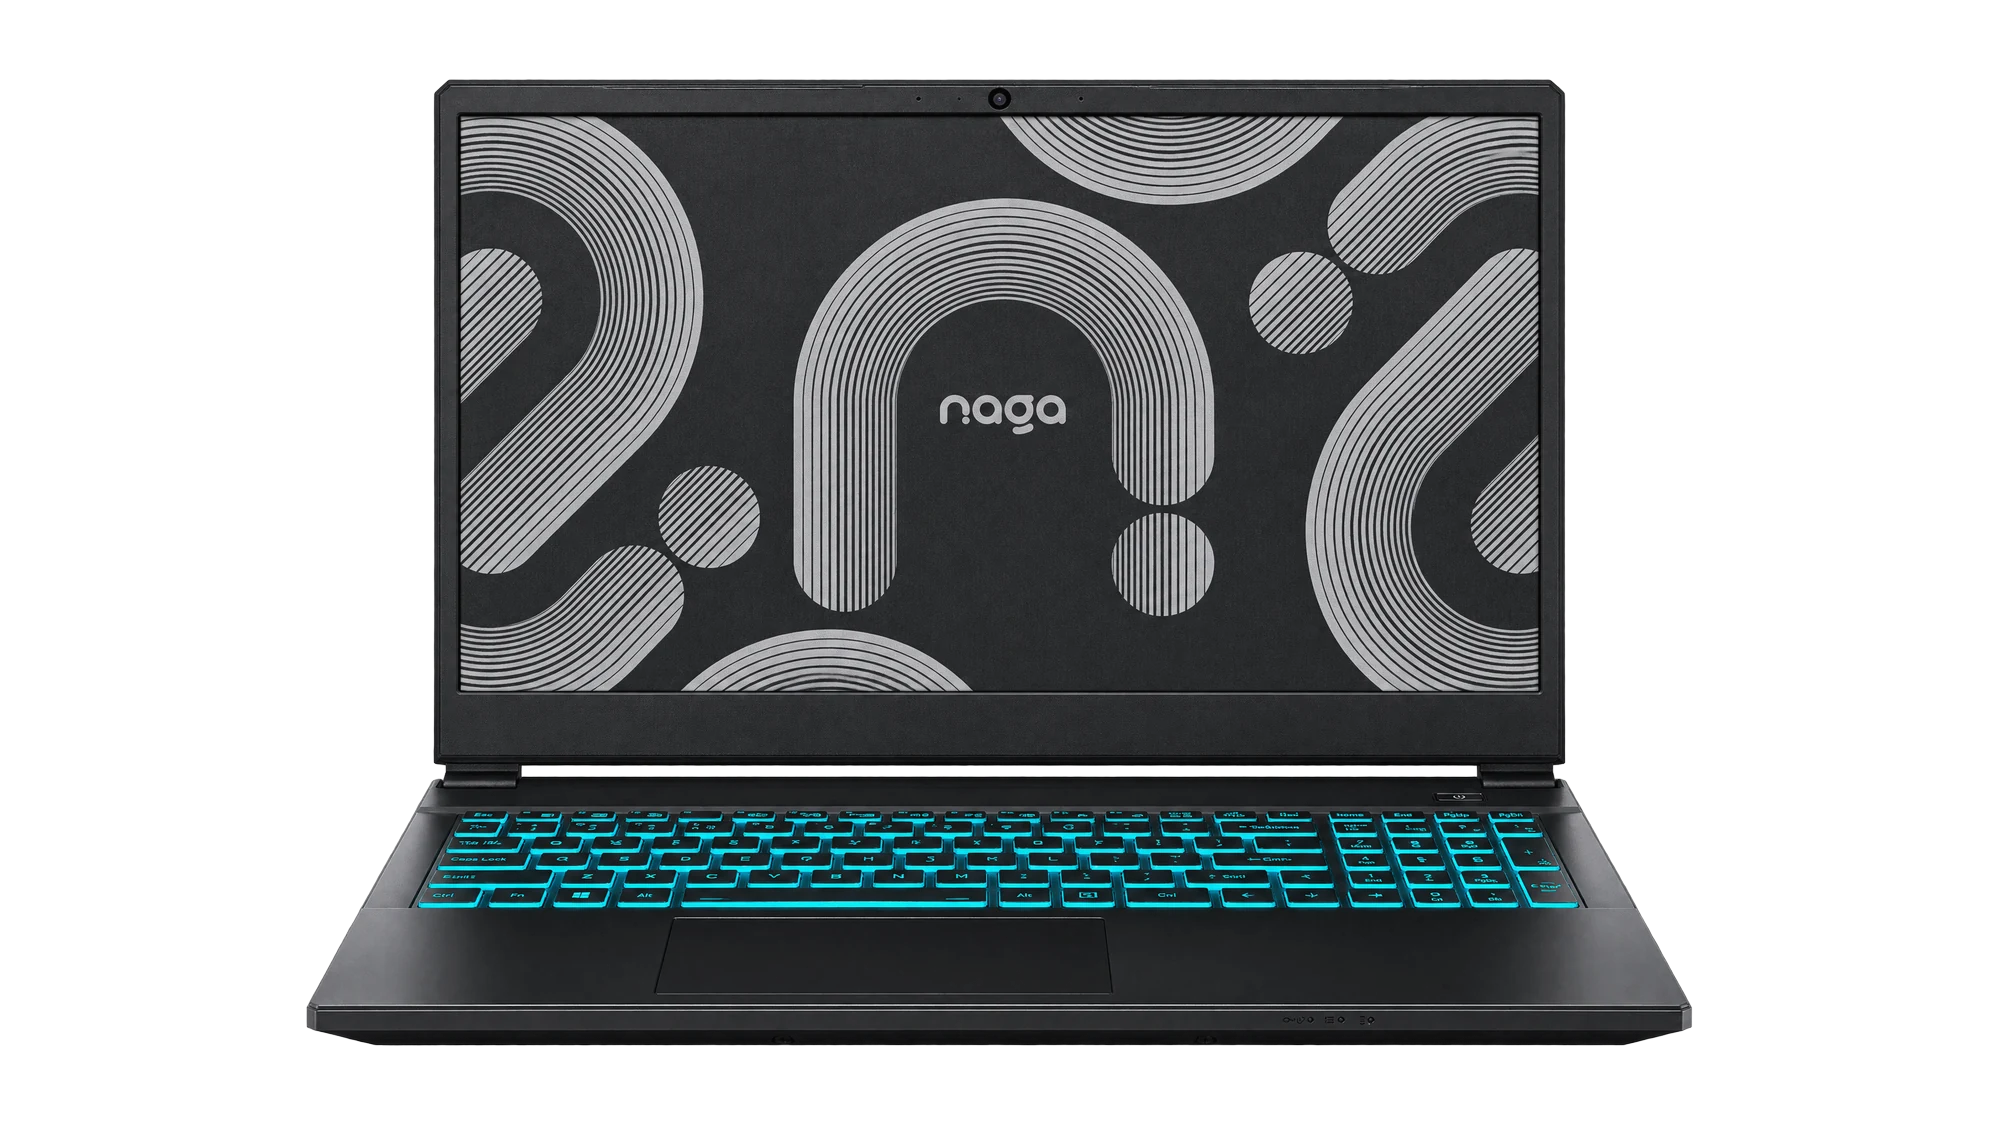
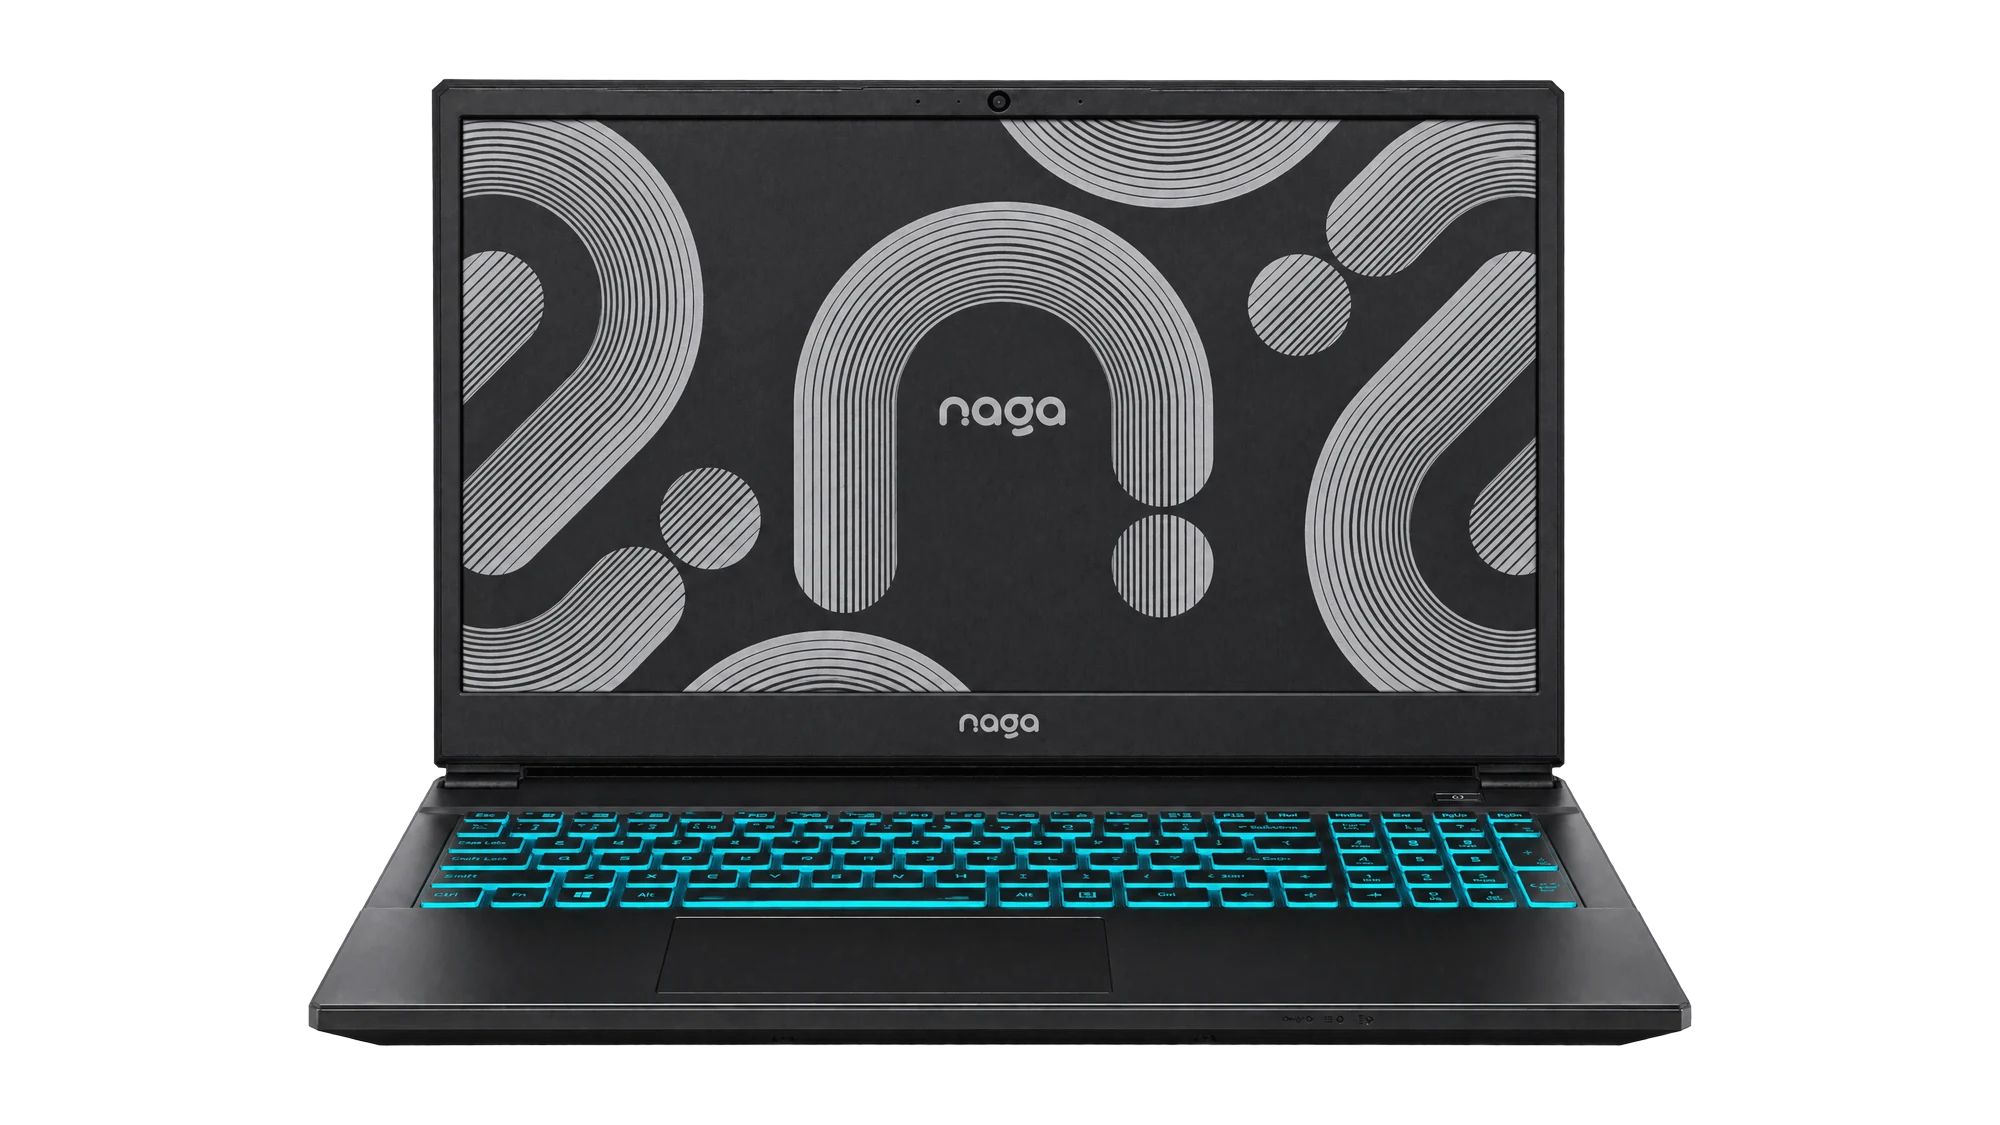
Add the bezel wordmark and fix the closed-lid shots
- The open-lid shots (three-quarter and front, SIPAG I and LAKAN II)
  now carry the small silver "naga" wordmark centered on the bottom
  screen bezel, as on the production units.
- The closed shots were lopsided (LAKAN II) and had a skewed logo
  (SIPAG I). They are now top-down views of a clean lid, scaled to the
  real lid proportions from the spec sheets, with the wordmark printed
  on in post: 14% of the lid width, slightly darker than the lid, flat,
  so the size and position are exact.
- Gallery captions and alt text match the new closed shots.

Claude-Session: https://claude.ai/code/session_01W3oBsj7WJ641fiAoP7oLZ2

diff --git a/lakan-ii.html b/lakan-ii.html
@@ -72,7 +72,7 @@
   <div class="wrap">
     <div class="gallery" data-reveal>
       <figure class="gview" data-reveal-child><img src="assets/img/products/lakan-ii-front.webp" alt="LAKAN II from the front, keyboard lit cyan, Naga wallpaper on screen" loading="lazy" width="2000" height="1125"><figcaption>Full-size keyboard with numpad, one-zone RGB.</figcaption></figure>
-      <figure class="gview" data-reveal-child><img src="assets/img/products/lakan-ii-closed.webp" alt="LAKAN II closed, naga wordmark on the black lid" loading="lazy" width="2000" height="1125"><figcaption>Matte black lid. HDMI, Mini DisplayPort and LAN on board.</figcaption></figure>
+      <figure class="gview" data-reveal-child><img src="assets/img/products/lakan-ii-closed.webp" alt="LAKAN II closed, seen from above, naga wordmark on the lid" loading="lazy" width="2000" height="1125"><figcaption>Matte black lid. Rear vents keep the RTX 5060 cool.</figcaption></figure>
     </div>
   </div>
 </section>

diff --git a/sipag-i.html b/sipag-i.html
@@ -72,7 +72,7 @@
   <div class="wrap">
     <div class="gallery" data-reveal>
       <figure class="gview" data-reveal-child><img src="assets/img/products/sipag-i-front.webp" alt="SIPAG I from the front, lid open, Naga wallpaper on screen" loading="lazy" width="2000" height="1125"><figcaption>Thin bezels, 1080p webcam with a privacy shutter.</figcaption></figure>
-      <figure class="gview" data-reveal-child><img src="assets/img/products/sipag-i-closed.webp" alt="SIPAG I closed, naga wordmark on the black lid" loading="lazy" width="2000" height="1125"><figcaption>Metal lid, 16.85 mm closed.</figcaption></figure>
+      <figure class="gview" data-reveal-child><img src="assets/img/products/sipag-i-closed.webp" alt="SIPAG I closed, seen from above, naga wordmark on the lid" loading="lazy" width="2000" height="1125"><figcaption>Metal lid and base, built to MIL-STD-810H.</figcaption></figure>
     </div>
   </div>
 </section>

diff --git a/README.md b/README.md
@@ -58,8 +58,8 @@ All files are transparent 16:9 WebP at 2000×1125.
 |---|---|---|
 | `sipag-i.webp`, `lakan-ii.webp` | three-quarter front, lid open | homepage tile, product page hero shot (LAKAN also in the homepage performance chapter) |
 | `sipag-i-front.webp`, `lakan-ii-front.webp` | straight-on front | product page Views gallery |
-| `sipag-i-closed.webp`, `lakan-ii-closed.webp` | closed, lid with the wordmark | product page Views gallery |
+| `sipag-i-closed.webp`, `lakan-ii-closed.webp` | closed, top-down, lid with the wordmark | product page Views gallery |
 | `sipag-i-lid.webp`, `lakan-ii-lid.webp` | rear three-quarter, lid with the wordmark | product page dark chapter |
 | `diwa.webp` | three-quarter | homepage tile, DIWA page |
 
-The SIPAG I and LAKAN II images are GPT Image 2.6 renders made on Higgsfield from the product photos in the Clevo spec sheets (V740TU-2 and V255RNN1), so the chassis, ports and keyboard match the shipping units. Added on top: the Naga wallpaper on the screen (cyan for SIPAG I, dark for LAKAN II), the "naga" wordmark on the lid as a small flat print (about 14% of the lid width, slightly darker than the lid, no gloss or emboss) matched to a photo of the production lid, and a cyan keyboard backlight on LAKAN II. They are renders, not photographs. The DIWA image is still an AI concept render. To replace any of them, export a transparent 16:9 WebP at the same path.
+The SIPAG I and LAKAN II images are GPT Image 2.6 renders made on Higgsfield from the product photos in the Clevo spec sheets (V740TU-2 and V255RNN1), so the chassis, ports and keyboard match the shipping units. Added on top: the Naga wallpaper on the screen (cyan for SIPAG I, dark for LAKAN II), the "naga" wordmark on the lid as a small flat print (about 14% of the lid width, slightly darker than the lid, no gloss or emboss) matched to a photo of the production lid (on the top-down closed shots it is printed on in post, so size and position are exact), the small silver wordmark on the bottom screen bezel, and a cyan keyboard backlight on LAKAN II. They are renders, not photographs. The DIWA image is still an AI concept render. To replace any of them, export a transparent 16:9 WebP at the same path.

diff --git a/.claude/skills/naga-design-system/SKILL.md b/.claude/skills/naga-design-system/SKILL.md
@@ -55,7 +55,7 @@ Never add a color. If something needs emphasis on dark, use `--cyan`; on white, 
 
 ## Product imagery
 
-- Files live at `assets/img/products/<product>.webp` (transparent 16:9, 2000×1125) and are referenced from the homepage tile, the product page shot and the dark chapter. SIPAG I and LAKAN II are renders of the real Clevo chassis (made from the spec-sheet photos): black, Naga wallpaper on screen (cyan for SIPAG I, dark for LAKAN II), "naga" wordmark on the lid as a small flat print (about 14% of the lid width, slightly darker than the lid, no gloss or emboss, as on the production lid), no floor or shadow. Each laptop has four shots: `<product>.webp` (three-quarter front, the main image), `-front`, `-closed` and `-lid` (rear three-quarter, used in the dark chapter). DIWA is an AI concept render (black, cyan light bar). New shots must match: same chassis, studio light, transparent background, wordmark reading upright to the camera.
+- Files live at `assets/img/products/<product>.webp` (transparent 16:9, 2000×1125) and are referenced from the homepage tile, the product page shot and the dark chapter. SIPAG I and LAKAN II are renders of the real Clevo chassis (made from the spec-sheet photos): black, Naga wallpaper on screen (cyan for SIPAG I, dark for LAKAN II), "naga" wordmark on the lid as a small flat print (about 14% of the lid width, slightly darker than the lid, no gloss or emboss, as on the production lid), small silver wordmark centered on the bottom screen bezel, no floor or shadow. Each laptop has four shots: `<product>.webp` (three-quarter front, the main image), `-front`, `-closed` (top-down) and `-lid` (rear three-quarter, used in the dark chapter). DIWA is an AI concept render (black, cyan light bar). New shots must match: same chassis, studio light, transparent background, wordmark reading upright to the camera.
 - Shoot or render at 16:9, 1600×900 or larger, product centered, on transparent or pure white (light chapters) and reuse the same file on black (the glow sits behind it). A single three-quarter view with the lid open reads best at tile size.
 
 ## Adding a product page
